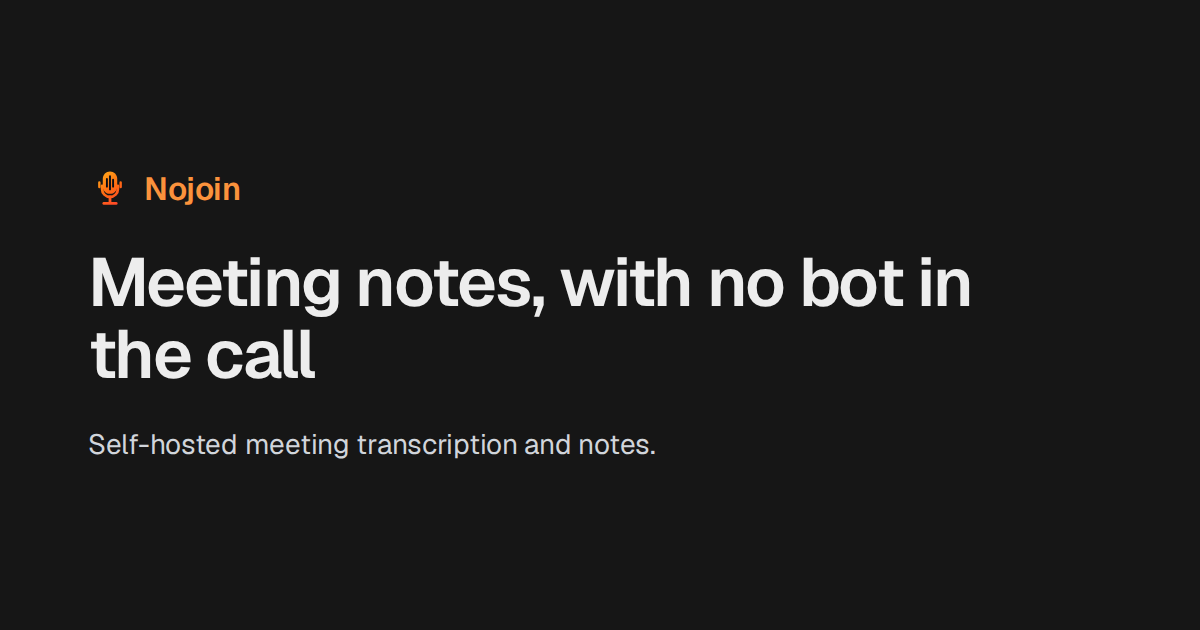
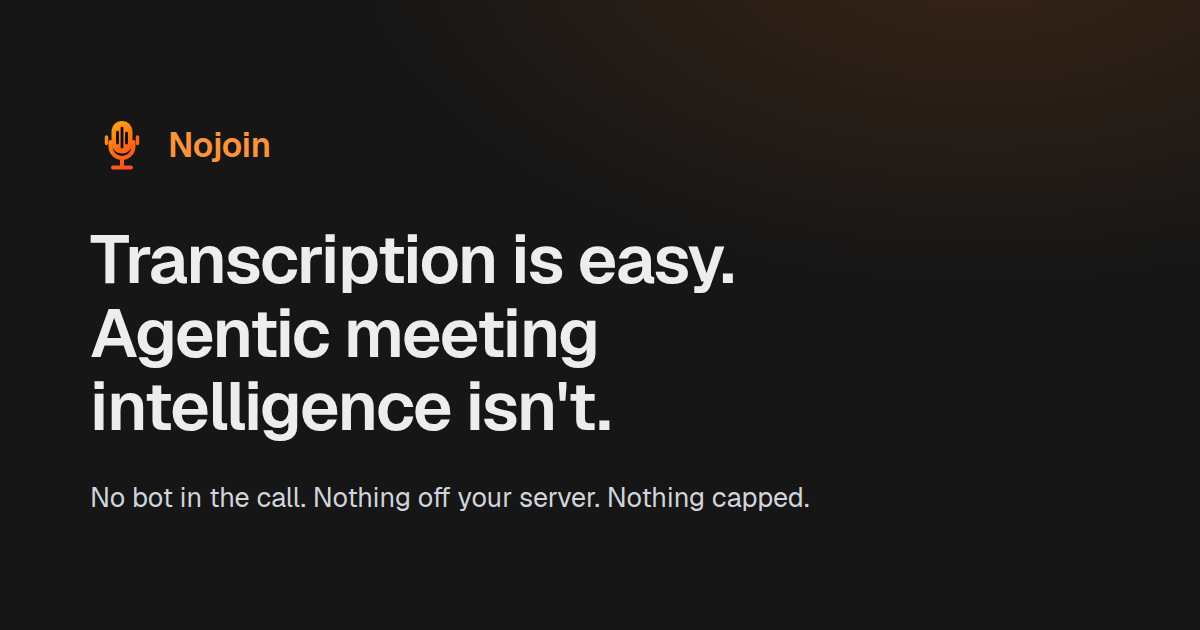
chore(site): regenerate the social card and drop dead Jekyll wiring (#207)
Post-launch hygiene. Three things the cutover left behind.

The Open Graph card still advertised "Meeting notes, with no bot in the
call" and "Self-hosted meeting transcription and notes". Both were
superseded, the second of them twice, so every share of the new site
carried a tagline the site had stopped using. Nothing on the page renders
that card, which is exactly why it drifted unnoticed through two headline
rewrites.

It is now generated rather than hand-made.
site/scripts/build-og-card.mjs renders it from the app's dark-theme
tokens, the site's own Geist face and the brand mark, so regenerating it
is a command rather than an afternoon in a design tool. Playwright stays
out of this repository's dependencies -- the same call the screenshot
pipeline made for a job that runs about once a year -- so the script
takes a Chromium path from PLAYWRIGHT_CHROMIUM. og:image:alt is updated
to match, and Base.astro now carries the note that the two move together.

ci.yml's site path filter matched assets/css/**, which was where the
Jekyll stylesheet lived until this launch deleted it. A filter on a path
that cannot exist is worse than no filter: it reads as coverage. Its
intent -- a stylesheet change must trigger the job that runs the contrast
gate -- now points at what actually holds those tokens,
frontend/src/app/tokens.css and the gate script itself. The site imports
the first by relative path and is audited as two of the second's four
[…]

diff --git a/docs/SITE.md b/docs/SITE.md
@@ -305,6 +305,22 @@ both, and on this host `pkill` patterns also match the shell wrapper that invoke
 preview tunnels by PID, or by matching the binary path `~/.local/bin/cloudflared`, and tidy
 them up when the review is done rather than leaving a fleet running.
 
+### The Open Graph card
+
+`site/public/images/og-card.png` is the single card every page shares, and it carries the
+hero headline. It was hand-made once and then drifted through two headline rewrites, so
+every share advertised a tagline the site had stopped using — invisible from the site
+itself, because nothing on the page renders it.
+
+`site/scripts/build-og-card.mjs` regenerates it. **Run it whenever the headline changes, and
+update `og:image:alt` in `Base.astro` to match.** Playwright is deliberately not a dependency
+of this repository, the same call the screenshot pipeline made for a job that runs about once
+a year, so the script takes a Chromium path from `PLAYWRIGHT_CHROMIUM` and expects
+`playwright-core` to be resolvable from outside the repo.
+
+The card's colours are the app's dark-theme tokens, quoted in the script rather than imported:
+it renders a bitmap, out of the stylesheet's reach. No gate catches a drift between the two.
+
 ### What a static preview cannot show you
 
 `/docs/*` redirects do not fire. They live in `site/worker/index.js` and only run on a real
